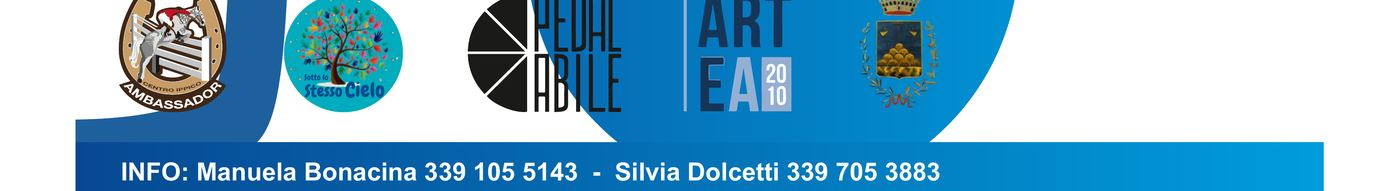
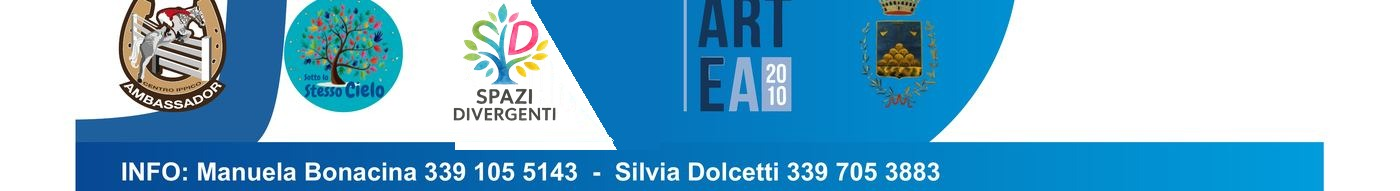
spazio divergenti

Changed region(s): [[0.3071, 0.0, 0.4607, 0.6545], [0.3071, 0.7068, 0.4607, 0.7853], [0.215, 0.288, 0.2457, 0.3141]]

diff --git a/app/components/ShareButtons.js b/app/components/ShareButtons.js
@@ -1,0 +1,78 @@
+'use client';
+
+import { useState } from 'react';
+
+const SHARE_TEXT =
+  'Cammina con noi alla Camminata Benefica di Sabbio Chiese, il 4 ottobre 2026! Iscriviti qui:';
+
+function getPageUrl() {
+  return typeof window !== 'undefined' ? window.location.href : '';
+}
+
+function openSharePopup(url) {
+  window.open(url, '_blank', 'noopener,noreferrer,width=600,height=520');
+}
+
+export default function ShareButtons() {
+  const [copied, setCopied] = useState(false);
+
+  function shareFacebook() {
+    const url = getPageUrl();
+    openSharePopup(`https://www.facebook.com/sharer/sharer.php?u=${encodeURIComponent(url)}`);
+  }
+
+  function shareX() {
+    const url = getPageUrl();
+    openSharePopup(
+      `https://twitter.com/intent/tweet?url=${encodeURIComponent(url)}&text=${encodeURIComponent(SHARE_TEXT)}`
+    );
+  }
+
+  function shareWhatsApp() {
+    const url = getPageUrl();
+    openSharePopup(`https://wa.me/?text=${encodeURIComponent(`${SHARE_TEXT} ${url}`)}`);
+  }
+
+  async function shareInstagram() {
+    const url = getPageUrl();
+    try {
+      await navigator.clipboard.writeText(url);
+      setCopied(true);
+      setTimeout(() => setCopied(false), 3000);
+    } catch (err) {
+      // clipboard non disponibile: nessuna azione
+    }
+  }
+
+  return (
+    <div className="share-row">
+      <span className="share-label">Condividi</span>
+
+      <button type="button" onClick={shareFacebook} aria-label="Condividi su Facebook" className="share-btn">
+        <svg viewBox="0 0 24 24" width="18" height="18" fill="currentColor" aria-hidden="true">
+          <path d="M22 12.06C22 6.5 17.52 2 12 2S2 6.5 2 12.06c0 5 3.66 9.15 8.44 9.94v-7.03H7.9v-2.91h2.54V9.85c0-2.5 1.49-3.89 3.77-3.89 1.09 0 2.24.2 2.24.2v2.46h-1.26c-1.24 0-1.63.77-1.63 1.56v1.88h2.78l-.44 2.91h-2.34V22c4.78-.79 8.44-4.94 8.44-9.94Z" />
+        </svg>
+      </button>
+
+      <button type="button" onClick={shareX} aria-label="Condividi su X" className="share-btn">
+        <svg viewBox="0 0 24 24" width="16" height="16" fill="currentColor" aria-hidden="true">
+          <path d="M18.9 2H22l-7.6 8.68L23.3 22h-6.9l-5.4-7.06L4.7 22H1.6l8.1-9.26L1 2h7.1l4.9 6.46L18.9 2Zm-1.2 18h1.9L7.4 3.9H5.4L17.7 20Z" />
+        </svg>
+      </button>
+
+      <button type="button" onClick={shareWhatsApp} aria-label="Condividi su WhatsApp" className="share-btn">
+        <svg viewBox="0 0 24 24" width="18" height="18" fill="currentColor" aria-hidden="true">
+          <path d="M12.04 2C6.58 2 2.13 6.45 2.13 11.91c0 1.85.5 3.58 1.36 5.07L2 22l5.2-1.45a9.86 9.86 0 0 0 4.84 1.27h.01c5.46 0 9.9-4.45 9.9-9.91C21.96 6.45 17.5 2 12.04 2Zm5.87 14.02c-.25.7-1.45 1.34-2 1.42-.51.08-1.16.11-1.87-.12-.43-.14-.98-.32-1.7-.63-2.98-1.29-4.93-4.28-5.08-4.48-.15-.2-1.22-1.62-1.22-3.09 0-1.47.77-2.19 1.05-2.49.27-.3.6-.37.8-.37.2 0 .4 0 .57.01.18.01.43-.07.67.51.25.6.85 2.07.92 2.22.07.15.12.32.02.52-.1.2-.15.32-.3.5-.15.17-.31.39-.44.52-.15.15-.3.31-.13.6.17.3.76 1.25 1.63 2.02 1.12.99 2.06 1.3 2.36 1.45.3.15.47.12.65-.08.17-.2.74-.86.94-1.15.2-.3.4-.25.67-.15.28.1 1.75.82 2.05.97.3.15.5.22.57.35.08.13.08.72-.17 1.42Z" />
+        </svg>
+      </button>
+
+      <button type="button" onClick={shareInstagram} aria-label="Copia link per Instagram" className="share-btn">
+        <svg viewBox="0 0 24 24" width="18" height="18" fill="currentColor" aria-hidden="true">
+          <path d="M12 2.2c2.7 0 3 .01 4.12.06 1.11.05 1.87.23 2.53.48.68.27 1.26.62 1.83 1.19.57.57.92 1.15 1.19 1.83.25.66.43 1.42.48 2.53.05 1.12.06 1.42.06 4.12s-.01 3-.06 4.12c-.05 1.11-.23 1.87-.48 2.53a5.06 5.06 0 0 1-1.19 1.83c-.57.57-1.15.92-1.83 1.19-.66.25-1.42.43-2.53.48-1.12.05-1.42.06-4.12.06s-3-.01-4.12-.06c-1.11-.05-1.87-.23-2.53-.48a5.06 5.06 0 0 1-1.83-1.19 5.06 5.06 0 0 1-1.19-1.83c-.25-.66-.43-1.42-.48-2.53C2.01 15 2 14.7 2 12s.01-3 .06-4.12c.05-1.11.23-1.87.48-2.53.27-.68.62-1.26 1.19-1.83A5.06 5.06 0 0 1 5.56 2.33c.66-.25 1.42-.43 2.53-.48C9.2 1.8 9.5 1.79 12 1.79Zm0 1.98c-2.65 0-2.96.01-4.01.06-.97.04-1.5.2-1.85.34-.47.18-.8.4-1.15.75-.35.35-.57.68-.75 1.15-.14.35-.3.88-.34 1.85-.05 1.05-.06 1.36-.06 4.01s.01 2.96.06 4.01c.04.97.2 1.5.34 1.85.18.47.4.8.75 1.15.35.35.68.57 1.15.75.35.14.88.3 1.85.34 1.05.05 1.36.06 4.01.06s2.96-.01 4.01-.06c.97-.04 1.5-.2 1.85-.34.47-.18.8-.4 1.15-.75.35-.35.57-.68.75-1.15.14-.35.3-.88.34-1.85.05-1.05.06-1.36.06-4.01s-.01-2.96-.06-4.01c-.04-.97-.2-1.5-.34-1.85a2.9 2.9 0 0 0-.75-1.15 2.9 2.9 0 0 0-1.15-.75c-.35-.14-.88-.3-1.85-.34-1.05-.05-1.36-.06-4.01-.06ZM12 6.87A5.13 5.13 0 1 1 6.87 12 5.13 5.13 0 0 1 12 6.87Zm0 1.98A3.15 3.15 0 1 0 15.15 12 3.15 3.15 0 0 0 12 8.85Zm5.34-2.15a1.2 1.2 0 1 1-1.2-1.2 1.2 1.2 0 0 1 1.2 1.2Z" />
+        </svg>
+      </button>
+
+      {copied && <span className="share-copied">Link copiato! Incollalo su Instagram.</span>}
+    </div>
+  );
+}

diff --git a/app/page.js b/app/page.js
@@ -1,3 +1,5 @@
+import ShareButtons from './components/ShareButtons';
+
 export default function Home() {
   return (
     <main style={{ maxWidth: 720, margin: '0 auto', background: '#fff' }}>
@@ -15,17 +17,37 @@ export default function Home() {
       <div className="content-grid">
         <div className="content-main">
           <p className="poster-body">
-            Unisciti a noi per una giornata di movimento, solidarietà e condivisione!
-            Questa camminata è aperta a tutti, senza limiti di età, abilità o provenienza.
-            Camminiamo fianco a fianco per promuovere l'inclusione sociale, il rispetto
-            delle diversità e il sostegno a chi ha più bisogno.
+            Ci sono passi che ci portano avanti. E ce ne sono altri che possono aiutare ad
+            andare avanti anche chi ci sta accanto.
+          </p>
+
+          <p className="poster-body">
+            <strong>Soluzioni per tutti i passi</strong> nasce con questo spirito: trasformare
+            una semplice camminata in un momento di incontro, inclusione e solidarietà, capace
+            di unire persone, famiglie, associazioni e realtà del nostro territorio.
+          </p>
+
+          <p className="poster-body">
+            Il 4 ottobre 2026, a Sabbio Chiese, torniamo a camminare insieme per la seconda
+            edizione della nostra camminata benefica: 3 km aperti a tutti, senza distinzioni di
+            età o abilità, perché crediamo che il valore di una comunità si misuri anche dalla
+            capacità di non lasciare indietro nessuno.
+          </p>
+
+          <p className="poster-body">
+            Per Soluzioni Informatiche significa qualcosa di più che organizzare un evento:
+            significa restituire valore al territorio nel quale lavoriamo e cresciamo ogni
+            giorno, mettendo a disposizione energie, persone e relazioni per sostenere chi
+            dedica il proprio tempo agli altri. E soprattutto significa farlo insieme.
           </p>
 
           <div>
             <p className="poster-label">All'arrivo</p>
             <p className="poster-body">
-              Stand gastronomico · laboratorio della creta (Artea) · battesimo della sella
-              (Centro Ippico Ambassador) · trucca bimbi · balli di gruppo.
+              Al Parco La Fratta la giornata continuerà con stand gastronomico, attività per
+              bambini, laboratorio della creta (Artea), battesimo della sella (Centro Ippico
+              Ambassador) e balli di gruppo: un'occasione per stare insieme e trasformare la
+              solidarietà in una vera giornata di comunità.
             </p>
           </div>
 
@@ -33,8 +55,16 @@ export default function Home() {
             <p className="poster-label" style={{ color: 'var(--meadow)' }}>
               Tutto il ricavato sarà devoluto in beneficenza
             </p>
-            <p className="poster-body">Alle associazioni Pedalabile e Sotto lo stesso cielo.</p>
+            <p className="poster-body">Alle associazioni Spazi Divergenti e Sotto lo stesso cielo.</p>
           </div>
+
+          <p className="poster-body" style={{ fontStyle: 'italic', color: 'var(--slate)' }}>
+            Un passo da soli è solo un passo. Tanti passi insieme possono fare la differenza.
+            <br />
+            Ti aspettiamo il 4 ottobre. Cammina con noi.
+          </p>
+
+          <ShareButtons />
         </div>
 
         <div className="content-side">

diff --git a/app/globals.css b/app/globals.css
@@ -342,3 +342,45 @@ h1, h2, .display {
   text-align: left;
   background: #fff;
 }
+
+/* --- Condivisione social --- */
+.share-row {
+  display: flex;
+  align-items: center;
+  flex-wrap: wrap;
+  gap: 10px;
+  margin-top: 4px;
+}
+
+.share-label {
+  font-size: 12.5px;
+  font-weight: 700;
+  text-transform: uppercase;
+  letter-spacing: 0.5px;
+  color: var(--slate);
+}
+
+.share-btn {
+  display: inline-flex;
+  align-items: center;
+  justify-content: center;
+  width: 34px;
+  height: 34px;
+  border-radius: 50%;
+  border: none;
+  background: var(--sky-light);
+  color: var(--sky-deep);
+  cursor: pointer;
+  transition: background 0.15s ease, color 0.15s ease;
+}
+
+.share-btn:hover {
+  background: var(--sky-deep);
+  color: #fff;
+}
+
+.share-copied {
+  font-size: 12.5px;
+  color: var(--meadow);
+  font-weight: 600;
+}

diff --git a/CLAUDE.md b/CLAUDE.md
@@ -1,0 +1,75 @@
+# CLAUDE.md
+
+This file provides guidance to Claude Code (claude.ai/code) when working with code in this repository.
+
+## Project
+
+Next.js 14 (App Router, JavaScript, no TypeScript) single-purpose registration portal for a charity
+walk event ("Camminata Benefica"). Public form to register participants (individually or in
+groups/families) with per-category fees, payment by Stripe card checkout or cash on the day, plus a
+password-gated admin panel to view/export/manage registrations. Data lives in Supabase (Postgres).
+UI text and all user-facing content is in Italian.
+
+## Commands
+
+```bash
+npm run dev      # start dev server (localhost:3000)
+npm run build    # production build
+npm start        # run production build
+```
+
+There is no lint script, no test suite, and no TypeScript checking configured in this repo.
+
+Environment variables (see `.env.example`) must be set in `.env.local` for local dev:
+`NEXT_PUBLIC_SUPABASE_URL`, `NEXT_PUBLIC_SUPABASE_ANON_KEY`, `SUPABASE_SERVICE_ROLE_KEY`,
+`STRIPE_SECRET_KEY`, `STRIPE_WEBHOOK_SECRET`, `NEXT_PUBLIC_BASE_URL`, `ADMIN_PASSWORD`.
+
+## Architecture
+
+- **`app/page.js`** — public registration form (client component). Contains `CATEGORY_OPTIONS`,
+  a UI-only mirror of the pricing used in `lib/pricing.js` purely to display prices — **the two
+  must be kept in sync manually** whenever fees change.
+- **`app/api/checkout/route.js`** — the only entry point that creates participant rows. Inserts one
+  row per participant into `participants`, all sharing a single generated `group_id` (a
+  registration can cover a family/group under one contact email). Then branches on total price and
+  payment method:
+  - total = 0 (all free categories) → marks the group `paid` immediately, no Stripe involved.
+  - `payment_method: 'cash'` → leaves rows `pending`; confirmed later manually from `/admin`.
+  - `payment_method: 'card'` → creates a single Stripe Checkout session for the group's total and
+    stores `stripe_session_id` on the rows.
+- **`app/api/webhook/route.js`** — Stripe webhook (`checkout.session.completed`). Verifies the
+  signature against the **raw** request body and flips matching rows to `paid` by `stripe_session_id`.
+  This is the *only* code path allowed to mark card payments as paid — the admin UI intentionally
+  has no way to toggle card payment status by hand.
+- **`lib/pricing.js`** — single source of truth for category fees (`CATEGORIES`), used by the
+  checkout API to compute real amounts server-side. Never trust client-submitted amounts.
+- **`lib/supabase.js`** — `getSupabaseAdmin()` builds a Supabase client with the `service_role` key
+  (full DB access, bypasses RLS). Import this only inside `app/api/**` route handlers, never in
+  client components — this key must never reach the browser.
+- **`app/admin/*` + `app/api/admin/*`** — password-protected admin panel. Auth is a shared
+  `ADMIN_PASSWORD` sent in the body of every admin API request (no session/cookie); each admin
+  route re-checks the password itself. `app/api/admin/list` returns all rows (including
+  soft-deleted); `delete` toggles `is_deleted` (soft delete/restore, nothing is ever hard-deleted);
+  `mark-paid` toggles cash-group payment status only (rejects card payments); `update-note` sets a
+  free-text note per row. CSV export happens client-side in `app/admin/page.js` from already-fetched
+  data.
+- **`app/api/ping/route.js`** — lightweight Supabase query hit by `.github/workflows/keep-alive.yml`
+  (cron, Mon/Thu) to prevent the free-tier Supabase project from pausing due to inactivity.
+- **`supabase/schema.sql`** — the `participants` table definition (run manually in the Supabase SQL
+  editor; there is no migration tool). When adding columns, update this file AND write the
+  idempotent `alter table ... add column if not exists` for existing deployed databases (see
+  README.md history for the established pattern).
+
+## Data model notes (`participants` table)
+
+- One row per person; `group_id` links everyone in the same submission/payment.
+- `payment_method`: `'card'` or `'cash'` — `'cash'` actually means "any in-person payment (cash or
+  POS), confirmed manually at check-in", kept as `cash` internally for backward compatibility.
+- `payment_status`: `'pending' | 'paid' | 'cancelled'`.
+- `is_deleted`: soft-delete flag; deleted rows are excluded from the admin's main list and from CSV
+  export but remain in the DB and are restorable.
+- `category` is constrained by a DB check constraint (`adulto`, `bambino`, `senior`, `agevolata`) —
+  keep `lib/pricing.js`, `supabase/schema.sql`, and `app/page.js`'s `CATEGORY_OPTIONS` consistent
+  when changing categories.
+- The `agevolata` category deliberately avoids asking for a disability/reason (GDPR Art. 9 sensitive
+  data) — see the note in `lib/pricing.js` before changing this.
